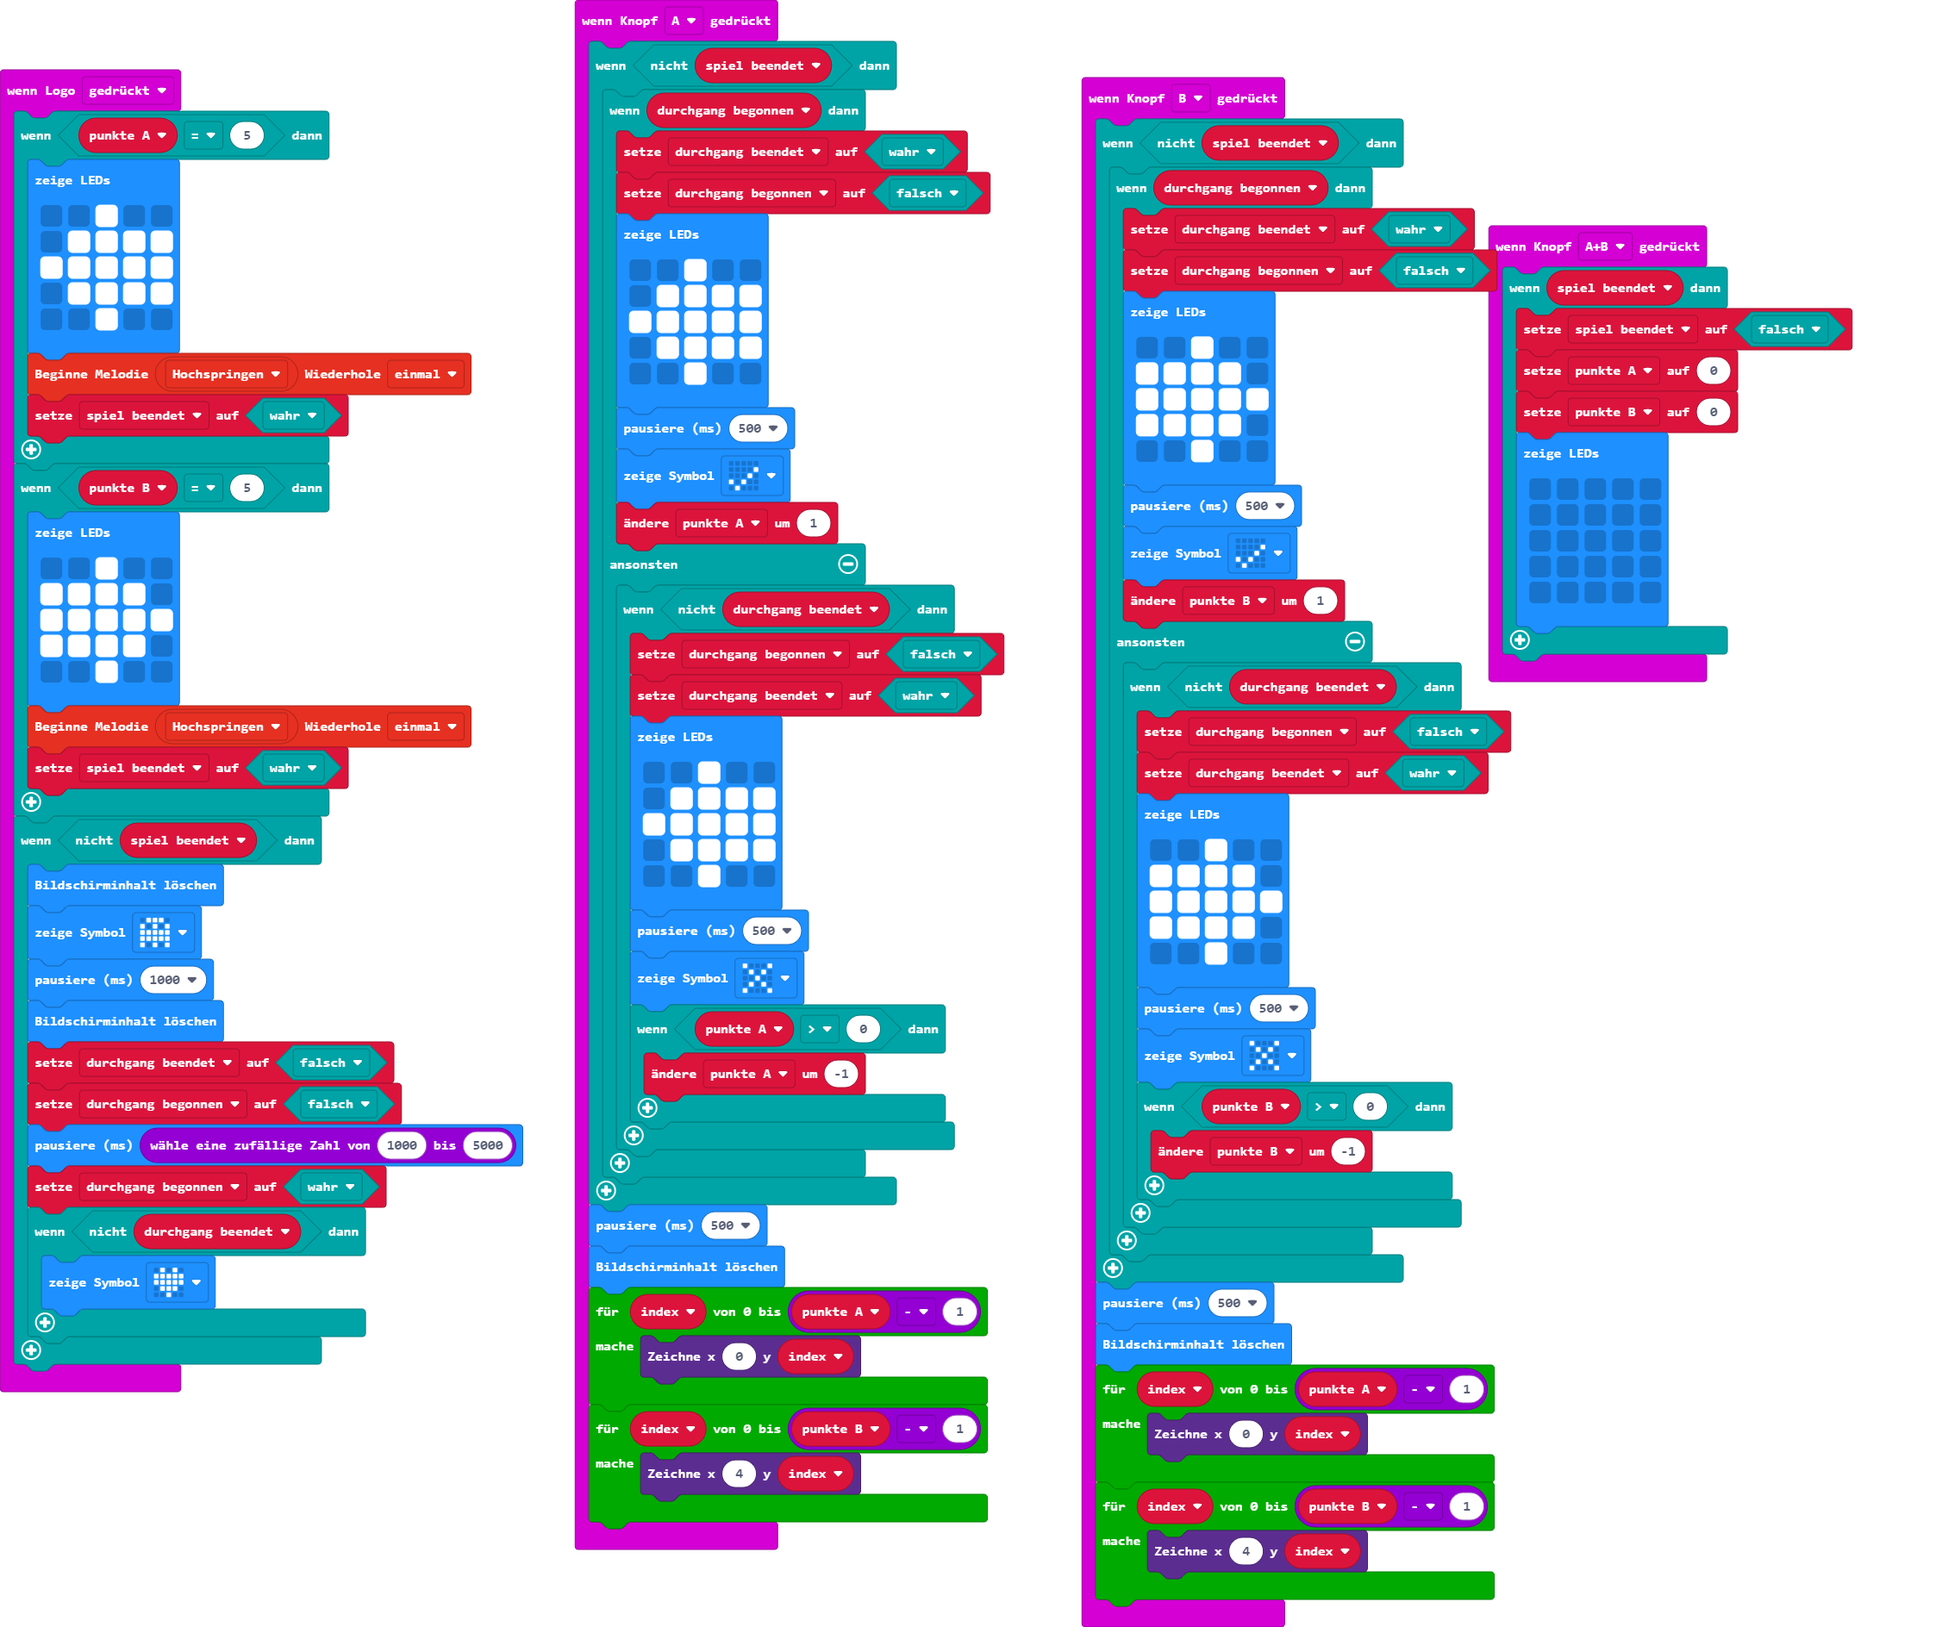
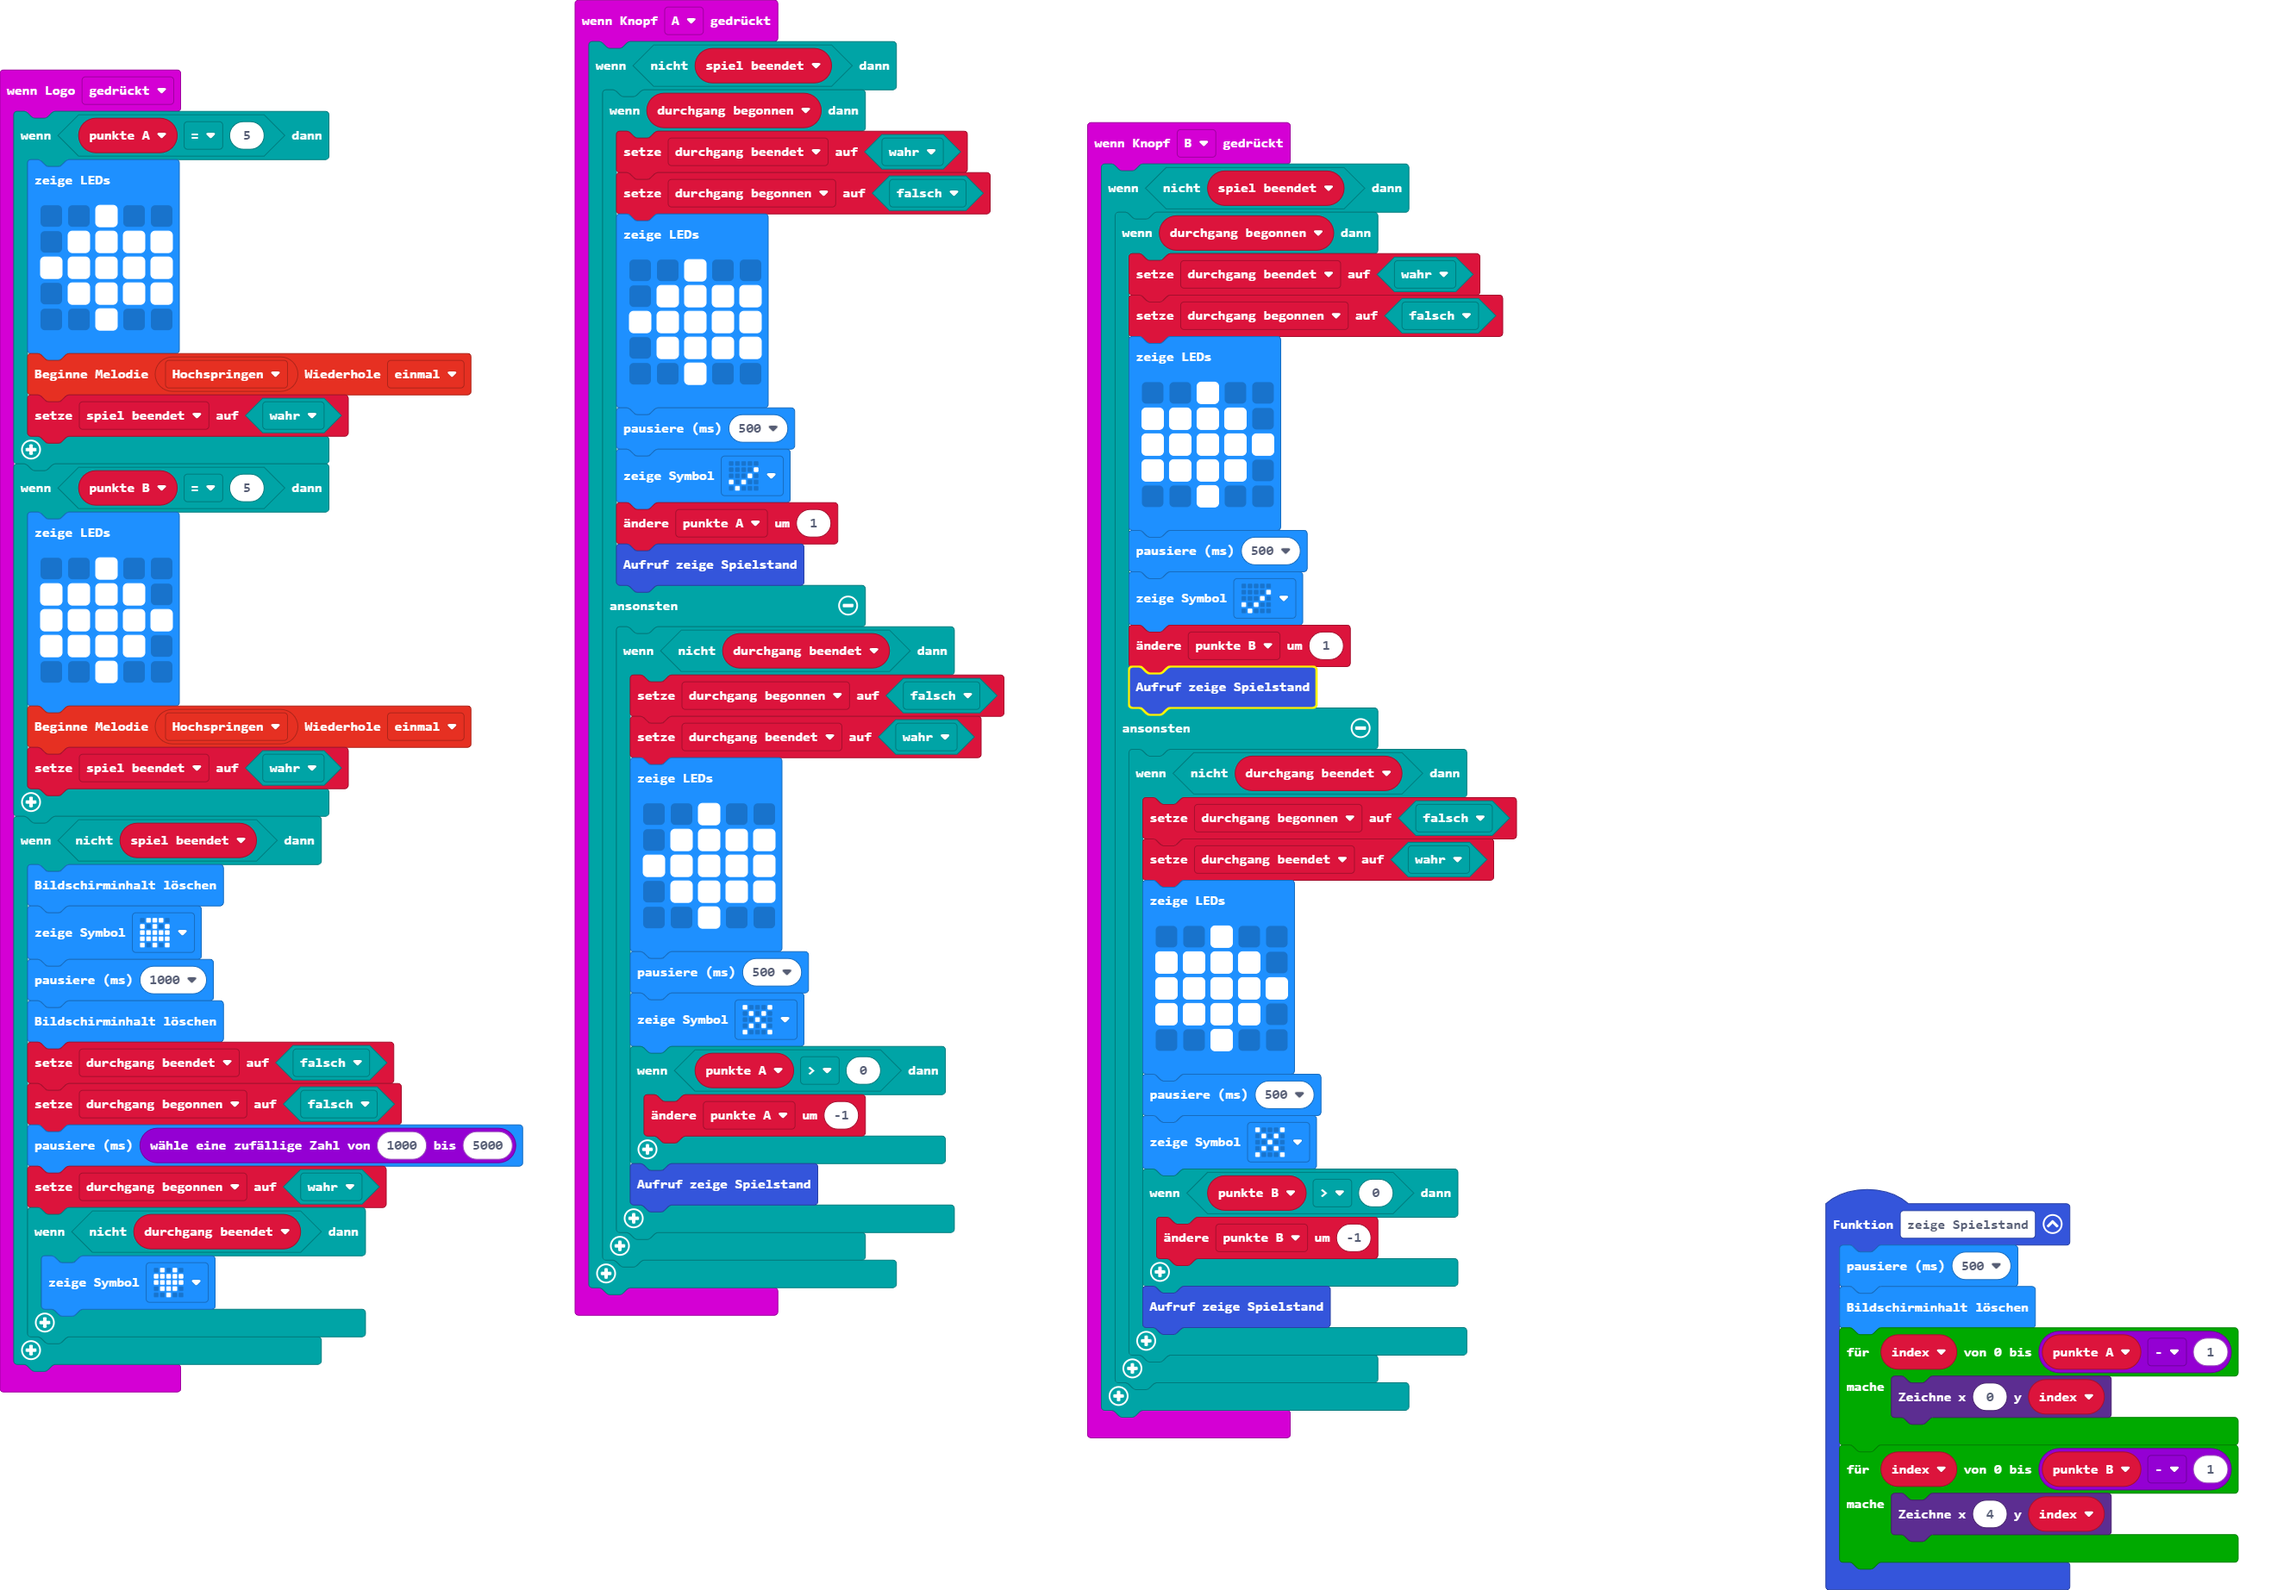
remove a+b, function for score

diff --git a/main.ts b/main.ts
@@ -55,6 +55,7 @@ input.onButtonPressed(Button.A, function () {
             basic.pause(500)
             basic.showIcon(IconNames.Yes)
             punkte_A += 1
+            zeige_Spielstand()
         } else {
             if (!(durchgang_beendet)) {
                 durchgang_begonnen = false
@@ -71,9 +72,12 @@ input.onButtonPressed(Button.A, function () {
                 if (punkte_A > 0) {
                     punkte_A += -1
                 }
+                zeige_Spielstand()
             }
         }
     }
+})
+function zeige_Spielstand () {
     basic.pause(500)
     basic.clearScreen()
     for (let index = 0; index <= punkte_A - 1; index++) {
@@ -82,21 +86,7 @@ input.onButtonPressed(Button.A, function () {
     for (let index = 0; index <= punkte_B - 1; index++) {
         led.plot(4, index)
     }
-})
-input.onButtonPressed(Button.AB, function () {
-    if (spiel_beendet) {
-        spiel_beendet = false
-        punkte_A = 0
-        punkte_B = 0
-        basic.showLeds(`
-            . . . . .
-            . . . . .
-            . . . . .
-            . . . . .
-            . . . . .
-            `)
-    }
-})
+}
 input.onButtonPressed(Button.B, function () {
     if (!(spiel_beendet)) {
         if (durchgang_begonnen) {
@@ -112,6 +102,7 @@ input.onButtonPressed(Button.B, function () {
             basic.pause(500)
             basic.showIcon(IconNames.Yes)
             punkte_B += 1
+            zeige_Spielstand()
         } else {
             if (!(durchgang_beendet)) {
                 durchgang_begonnen = false
@@ -128,15 +119,8 @@ input.onButtonPressed(Button.B, function () {
                 if (punkte_B > 0) {
                     punkte_B += -1
                 }
+                zeige_Spielstand()
             }
         }
-    }
-    basic.pause(500)
-    basic.clearScreen()
-    for (let index = 0; index <= punkte_A - 1; index++) {
-        led.plot(0, index)
-    }
-    for (let index = 0; index <= punkte_B - 1; index++) {
-        led.plot(4, index)
     }
 })
